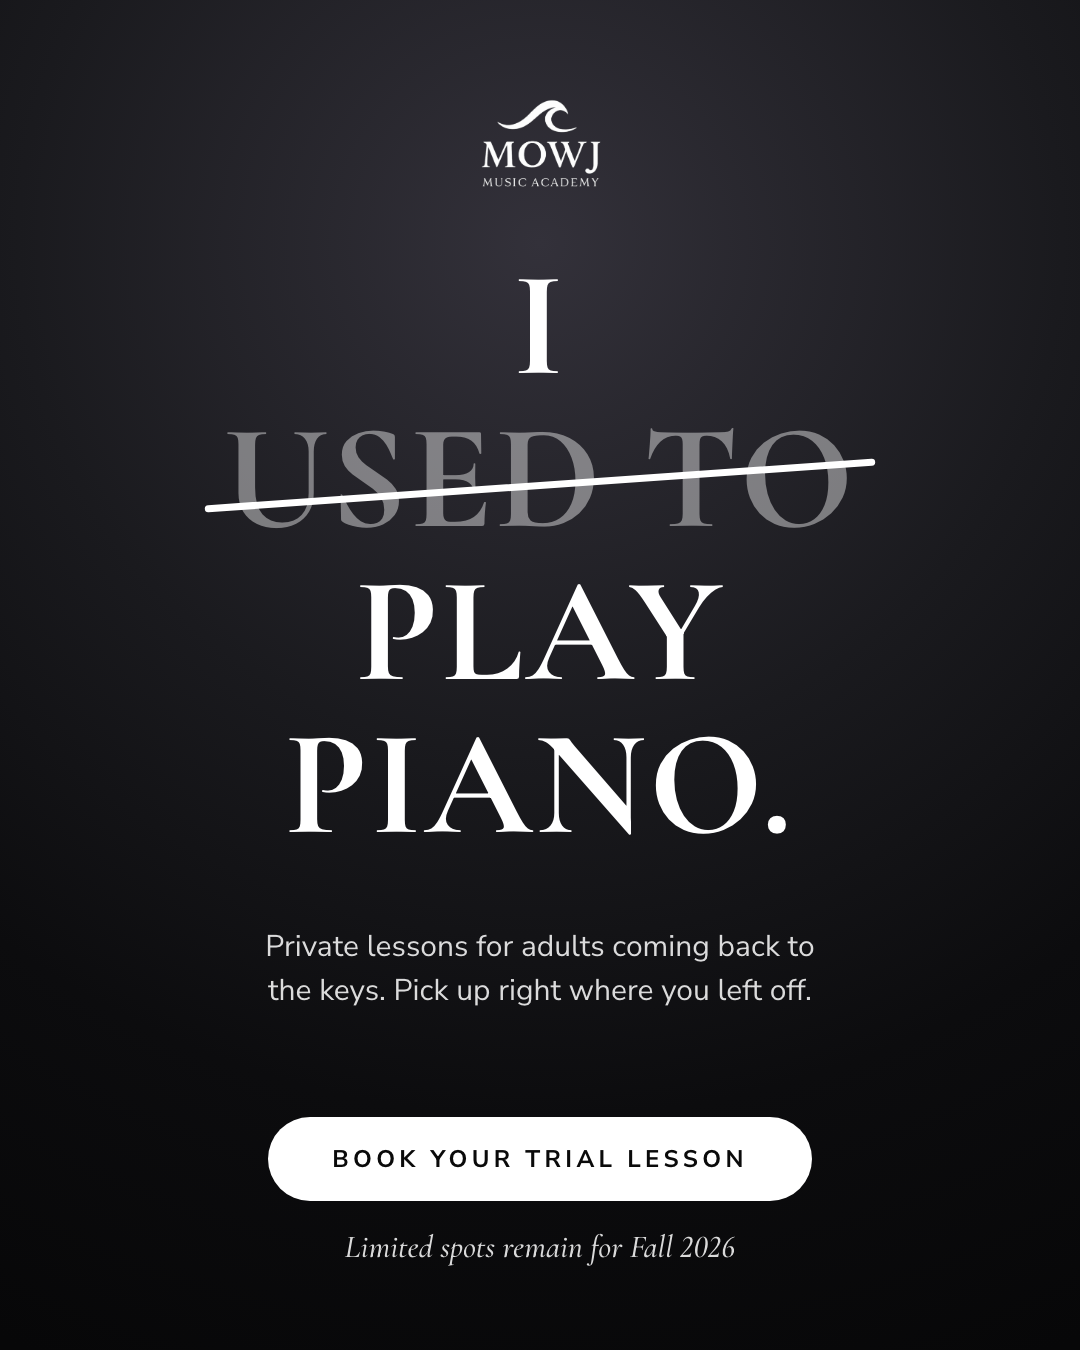
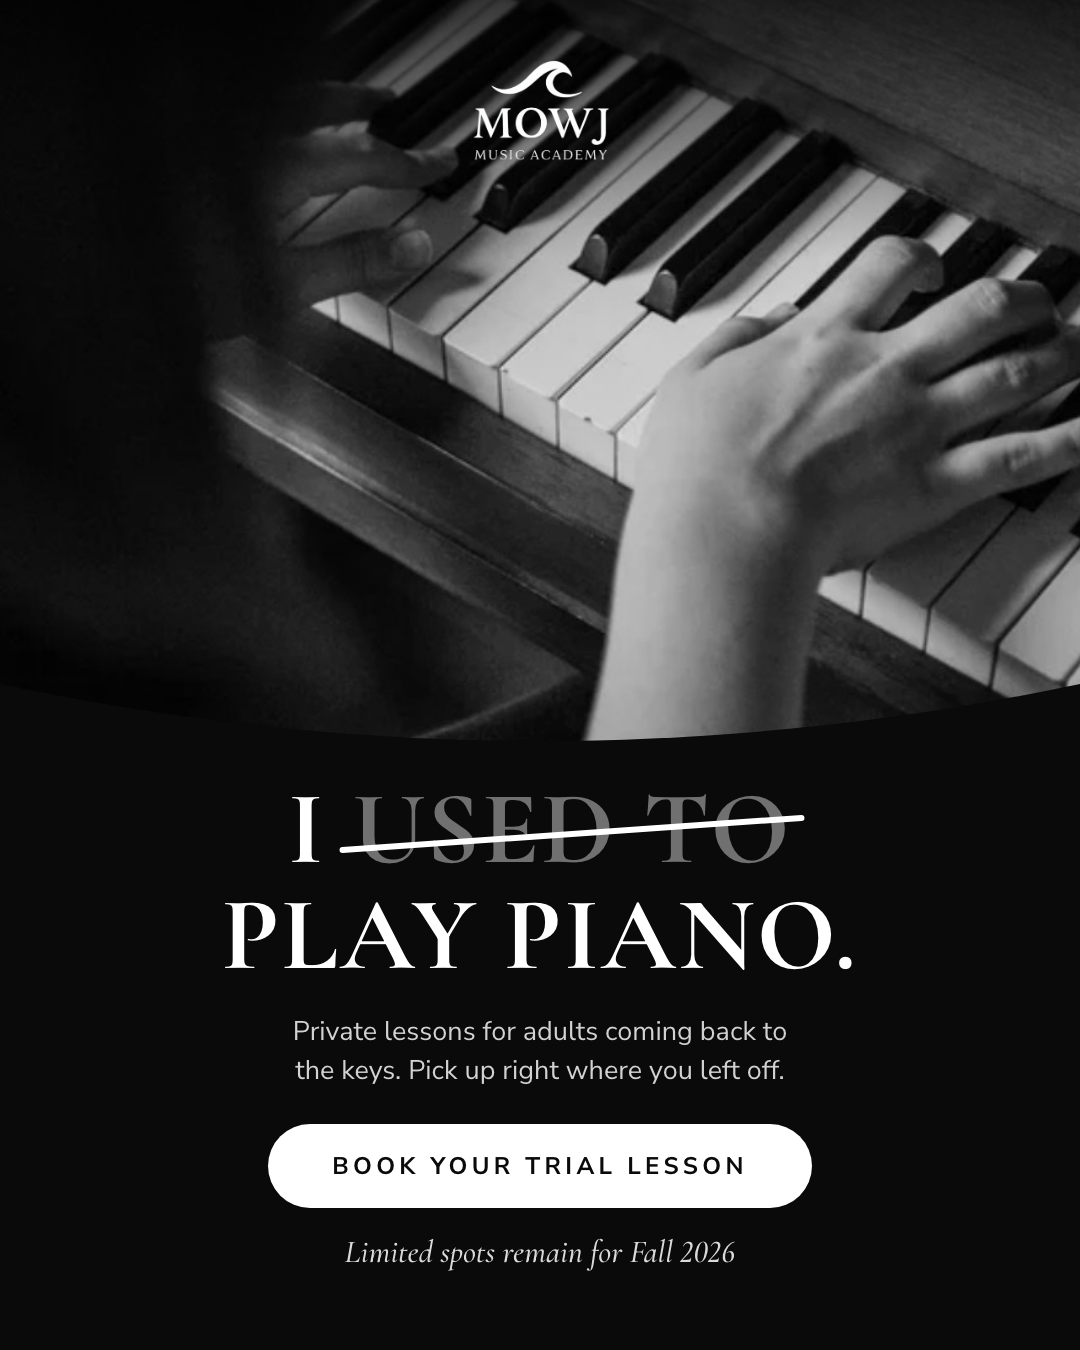
Put the hands-on-keys photo behind the 'I used to play piano' ad

diff --git a/social/06-ad-used-to-play.html b/social/06-ad-used-to-play.html
@@ -6,31 +6,46 @@
 <script>if (location.hash === "#story") document.documentElement.classList.add("story");</script>
 <link rel="stylesheet" href="base.css" />
 <style>
-  .content { position: relative; height: 100%; display: flex; flex-direction: column; align-items: center; padding: 96px 90px 84px; }
-  .logo { height: 96px; }
-  .spacer { flex: 1; }
-  .title { font-size: 150px; line-height: 1.02; }
+  .post { background: #0a0a0a; }
+  .top { position: absolute; left: 0; top: 0; width: 1080px; height: 760px; }
+  .top .photo { object-position: 50% 40%; opacity: 0.9; transform: scale(1.14); transform-origin: 20% 45%; }
+  .top .shade { position: absolute; inset: 0; background: linear-gradient(180deg, rgba(0,0,0,.72) 0%, rgba(0,0,0,.35) 18%, rgba(0,0,0,0) 34%); }
+  .top .logo { position: absolute; top: 56px; left: 50%; transform: translateX(-50%); height: 110px; z-index: 2; }
+  .bottom { position: absolute; left: 0; right: 0; top: 742px; bottom: 0; display: flex; flex-direction: column; align-items: center; padding: 34px 90px 0; }
+  .title { font-size: 104px; line-height: 1.02; }
   .struck { position: relative; display: inline-block; color: rgba(255,255,255,.42); }
   .struck::after {
     content: ""; position: absolute; left: -3%; right: -3%; top: 52%;
-    height: 7px; background: #fff; border-radius: 4px; transform: rotate(-4deg);
+    height: 6px; background: #fff; border-radius: 4px; transform: rotate(-4deg);
   }
-  .tag { margin-top: 64px; font-size: 30px; line-height: 1.45; color: rgba(255,255,255,.85); max-width: 760px; text-wrap: balance; }
-  .pill { margin-top: 48px; }
-  .limited { margin-top: 26px; font-size: 32px; font-style: italic; font-weight: 500; opacity: 0.85; }
+  .tag { margin-top: 24px; font-size: 27px; line-height: 1.45; color: rgba(255,255,255,.82); max-width: 800px; text-wrap: balance; }
+  .pill { margin-top: 34px; }
+  .limited { margin-top: 24px; font-size: 32px; font-style: italic; font-weight: 500; opacity: 0.85; }
 
   /* 9:16 Stories / Reels */
-  .story .content { padding-top: 280px; padding-bottom: 440px; }
+  .story .top { height: 1010px; }
+  .story .top .shade { background: linear-gradient(180deg, rgba(0,0,0,.6) 0%, rgba(0,0,0,.55) 20%, rgba(0,0,0,.3) 34%, rgba(0,0,0,0) 46%); }
+  .story .top .logo { top: 270px; }
+  .story .bottom { top: 996px; }
 </style>
 </head>
 <body>
+  <svg width="0" height="0" style="position:absolute">
+    <defs>
+      <clipPath id="waveBottom" clipPathUnits="objectBoundingBox">
+        <path d="M0,0 H1 V0.9 C0.66667,1.0 0.33333,1.0 0,0.9 Z" />
+      </clipPath>
+    </defs>
+  </svg>
   <div class="post hero-gradient">
-    <div class="content">
+    <div class="top wave-bottom">
+      <img class="photo" src="assets/keys.jpg" alt="" />
+      <div class="shade"></div>
       <img class="logo" src="assets/logo-white.webp" alt="" />
-      <div class="spacer"></div>
-      <h1 class="title">I<br /><span class="struck">used to</span><br />play piano.</h1>
+    </div>
+    <div class="bottom">
+      <h1 class="title">I <span class="struck">used to</span><br />play piano.</h1>
       <p class="tag">Private lessons for adults coming back to the keys. Pick up right where you left off.</p>
-      <div class="spacer"></div>
       <span class="pill light">Book Your Trial Lesson</span>
       <p class="limited serif">Limited spots remain for Fall 2026</p>
     </div>
